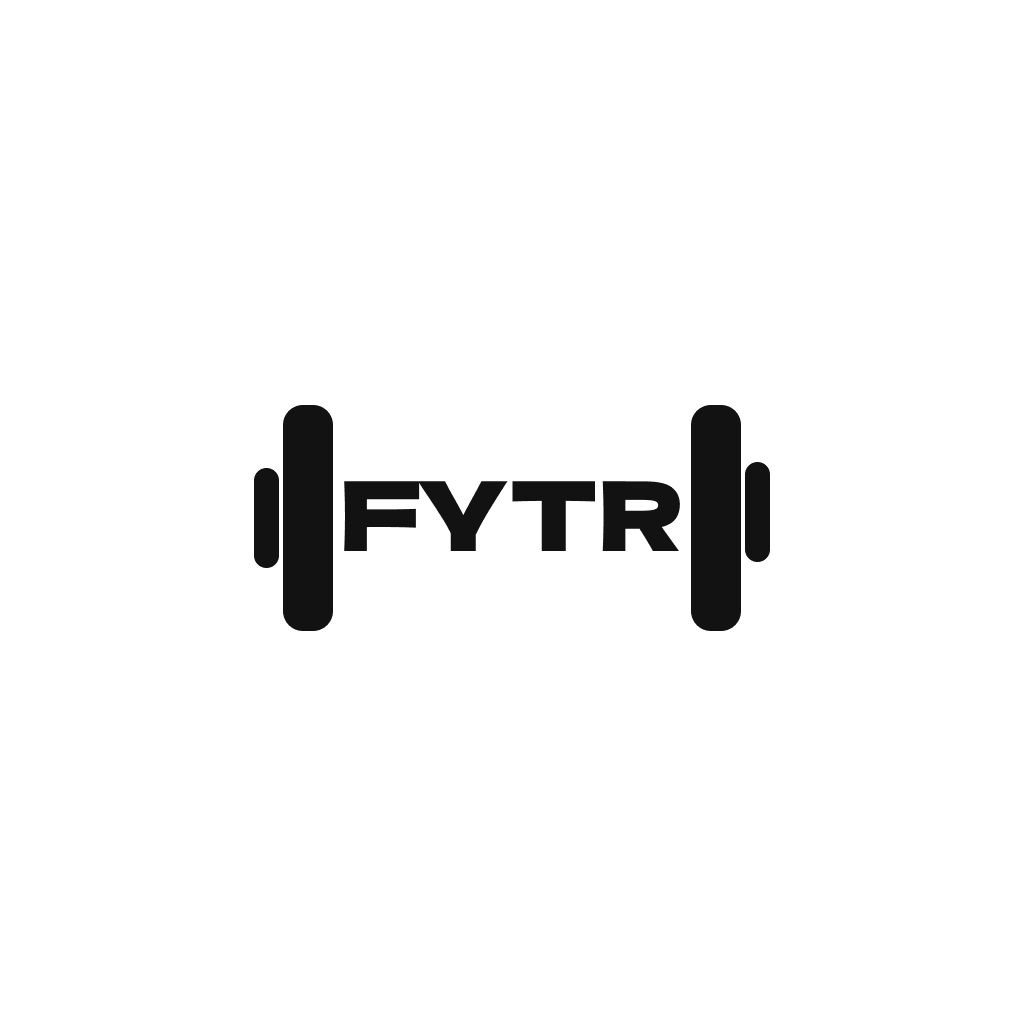
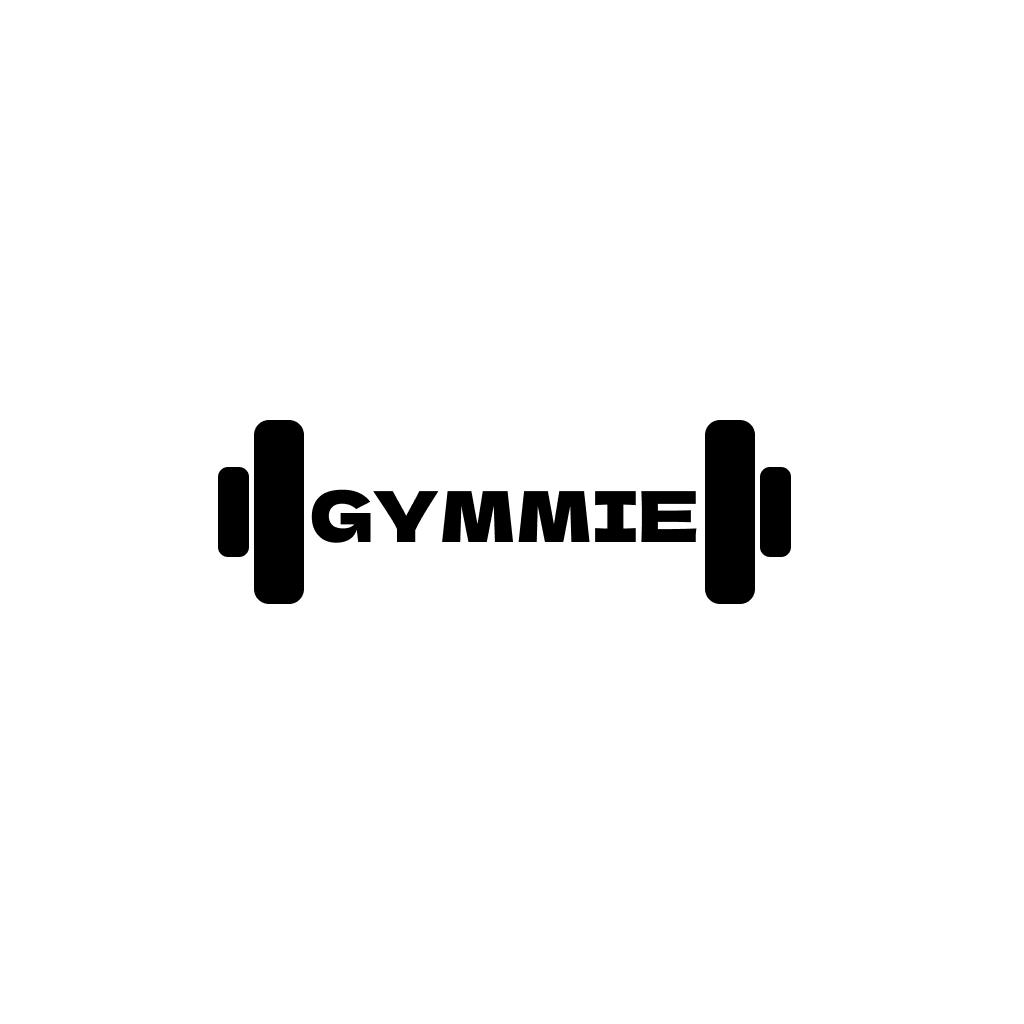
feat: changed name to gymmie

Changed region(s): [[0.1875, 0.375, 0.7812, 0.625]]

diff --git a/frontend/app/(root)/GetStartedScreen.tsx b/frontend/app/(root)/GetStartedScreen.tsx
@@ -28,7 +28,7 @@ const GetStartedScreen = () => {
       const response = await loginWithGoogle( googleLogin);
       router.dismissAll();
       if (response.user.onboarding_completed) {
-        router.push('/(app)/homeScreen');
+        router.push('/(app)/home');
       } else {
         router.push('/(onboarding)/OnboardingScreen1');
       }
@@ -49,7 +49,7 @@ const GetStartedScreen = () => {
 
   return (
     <SafeAreaView className='flex-1 bg-background-light dark:bg-background-dark justify-center items-center p-6'>
-      <Text style={{ fontFamily: fontFamily.semiBold }} className='text-4xl text-textPrimary-light dark:text-textPrimary-dark'>Join Fytr</Text>
+      <Text style={{ fontFamily: fontFamily.semiBold }} className='text-4xl text-textPrimary-light dark:text-textPrimary-dark'>Join Gymmie</Text>
       <Text style={{ fontFamily: fontFamily.medium }} className='text-textSecondary-light dark:text-textSecondary-dark mt-3 px-12  text-center'>Create an account or log in to continue</Text>
       <View className="mt-5 w-full">
         <Pressable onPress={handleCreateAccountScreen} className='bg-primary p-3 rounded-full w-full mt-12'>

diff --git a/frontend/app/(root)/CreateAccountScreen.tsx b/frontend/app/(root)/CreateAccountScreen.tsx
@@ -80,7 +80,7 @@ const CreateAccountScreen = () => {
             console.log("✅ Account creation complete, navigating...");
             router.dismissAll();
             if (response.user.onboarding_completed) {
-                router.replace('/(app)/homeScreen')
+                router.replace('/(app)/home')
             } else {
                 router.replace('/(onboarding)/OnboardingScreen1')
             }
@@ -128,7 +128,7 @@ const CreateAccountScreen = () => {
                                 style={{ fontFamily: fontFamily.semiBold }}
                                 className="text-3xl text-textPrimary-light dark:text-textPrimary-dark mt-10"
                             >
-                                Create your FYTR account
+                                Create your Gymmie account
                             </Text>
 
                             <Text

diff --git a/backend/src/controllers/exerciseSyncController.js b/backend/src/controllers/exerciseSyncController.js
@@ -21,17 +21,9 @@ const checkExerciseVersion = async (req, res) => {
 
 const syncExercisesIfNeeded = async (req, res) => {
   try {
-    const clientVersion = req.query.version;
     const serverVersion = await getExerciseCatalogVersion();
 
-    if (clientVersion === serverVersion) {
-      return res.json({
-        success: true,
-        upToDate: true,
-        version: serverVersion,
-        data: [],
-      });
-    }
+    
 
     const exercises = await getAllExercises();
 

diff --git a/backend/src/routes/exerciseSyncRoutes.js b/backend/src/routes/exerciseSyncRoutes.js
@@ -62,14 +62,6 @@ router.get("/version", checkExerciseVersion);
  *       returns all exercises for the client to sync.
  *     tags:
  *       - Exercise Sync
- *     parameters:
- *       - in: query
- *         name: version
- *         required: false
- *         schema:
- *           type: string
- *         description: The client's current exercise catalog version
- *         example: "1.0.0"
  *     responses:
  *       200:
  *         description: Exercise sync response

diff --git a/frontend/app/(root)/LoginScreen.tsx b/frontend/app/(root)/LoginScreen.tsx
@@ -68,7 +68,7 @@ const LoginScreen = () => {
             
             router.dismissAll();
             if (response.user.onboarding_completed) {
-                router.replace('/(app)/homeScreen')
+                router.replace('/(app)/home')
             } else {
                 router.replace('/(onboarding)/OnboardingScreen1')
             }

diff --git a/frontend/src/types/exerciseTypes.ts b/frontend/src/types/exerciseTypes.ts
@@ -1,0 +1,13 @@
+export interface Exercise {
+  id: string;
+  name: string;
+  force?: string;
+  level?: string;
+  mechanic?: string;
+  equipment?: string;
+  category?: string;
+  primary_muscles: string[];
+  secondary_muscles: string[];
+  instructions: string[];
+  image_urls: string[];
+}
